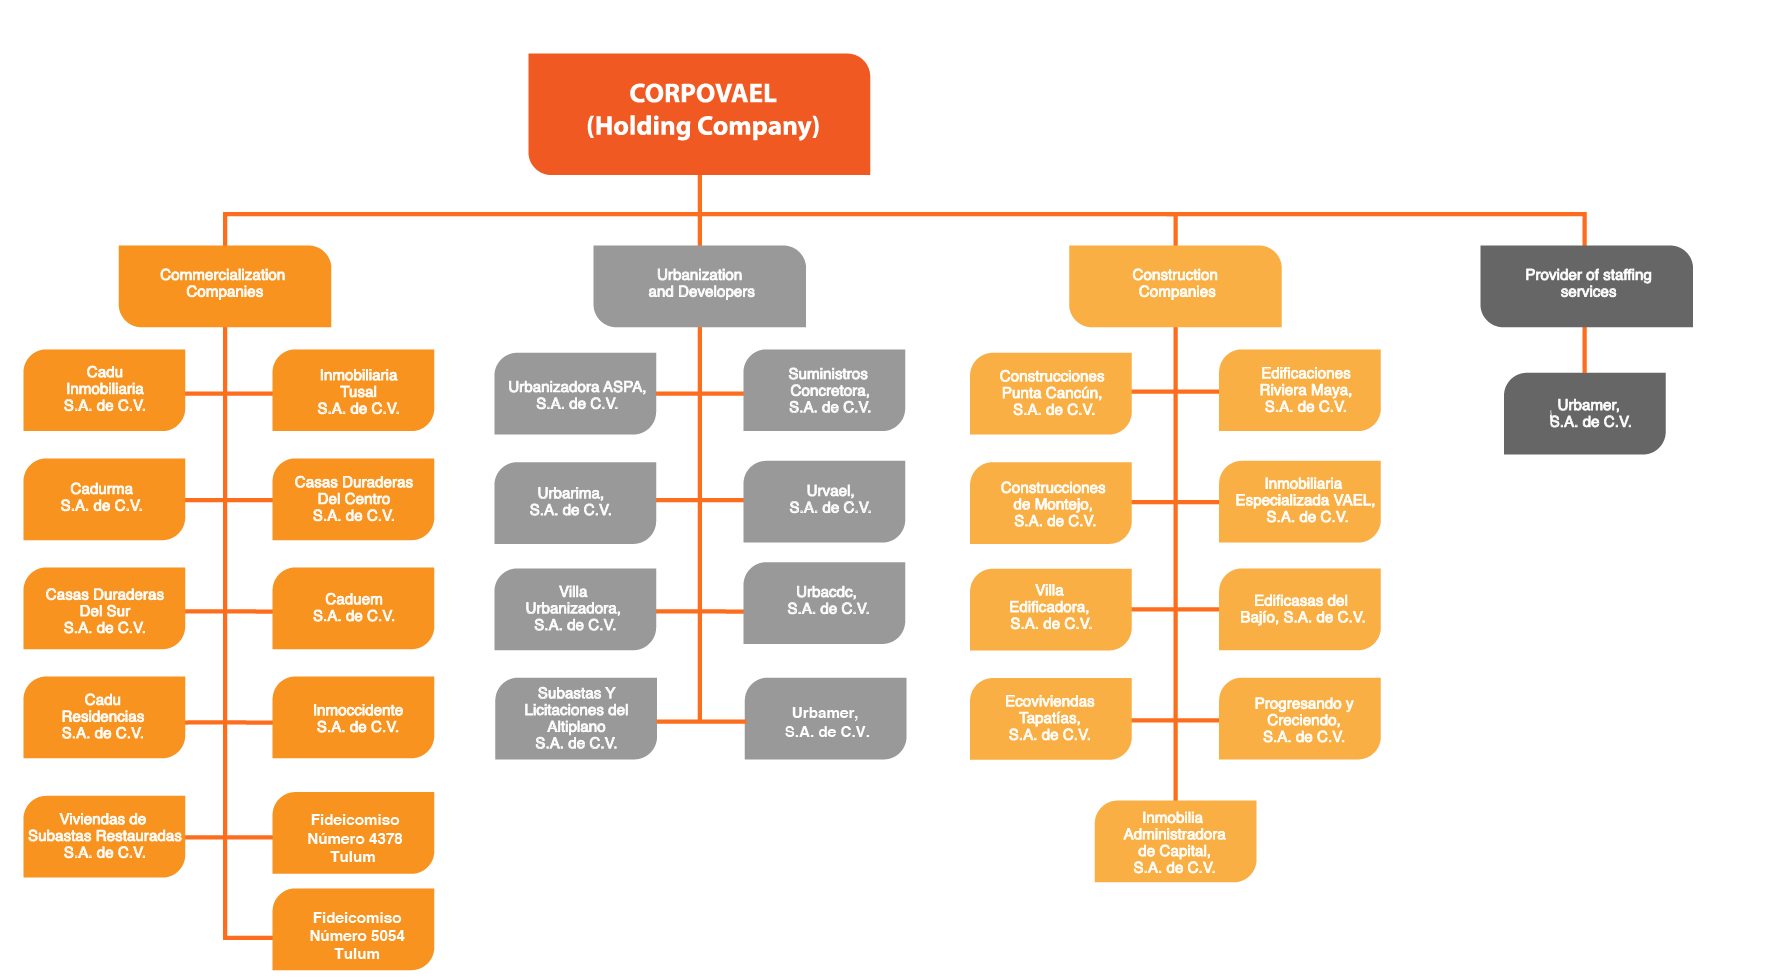
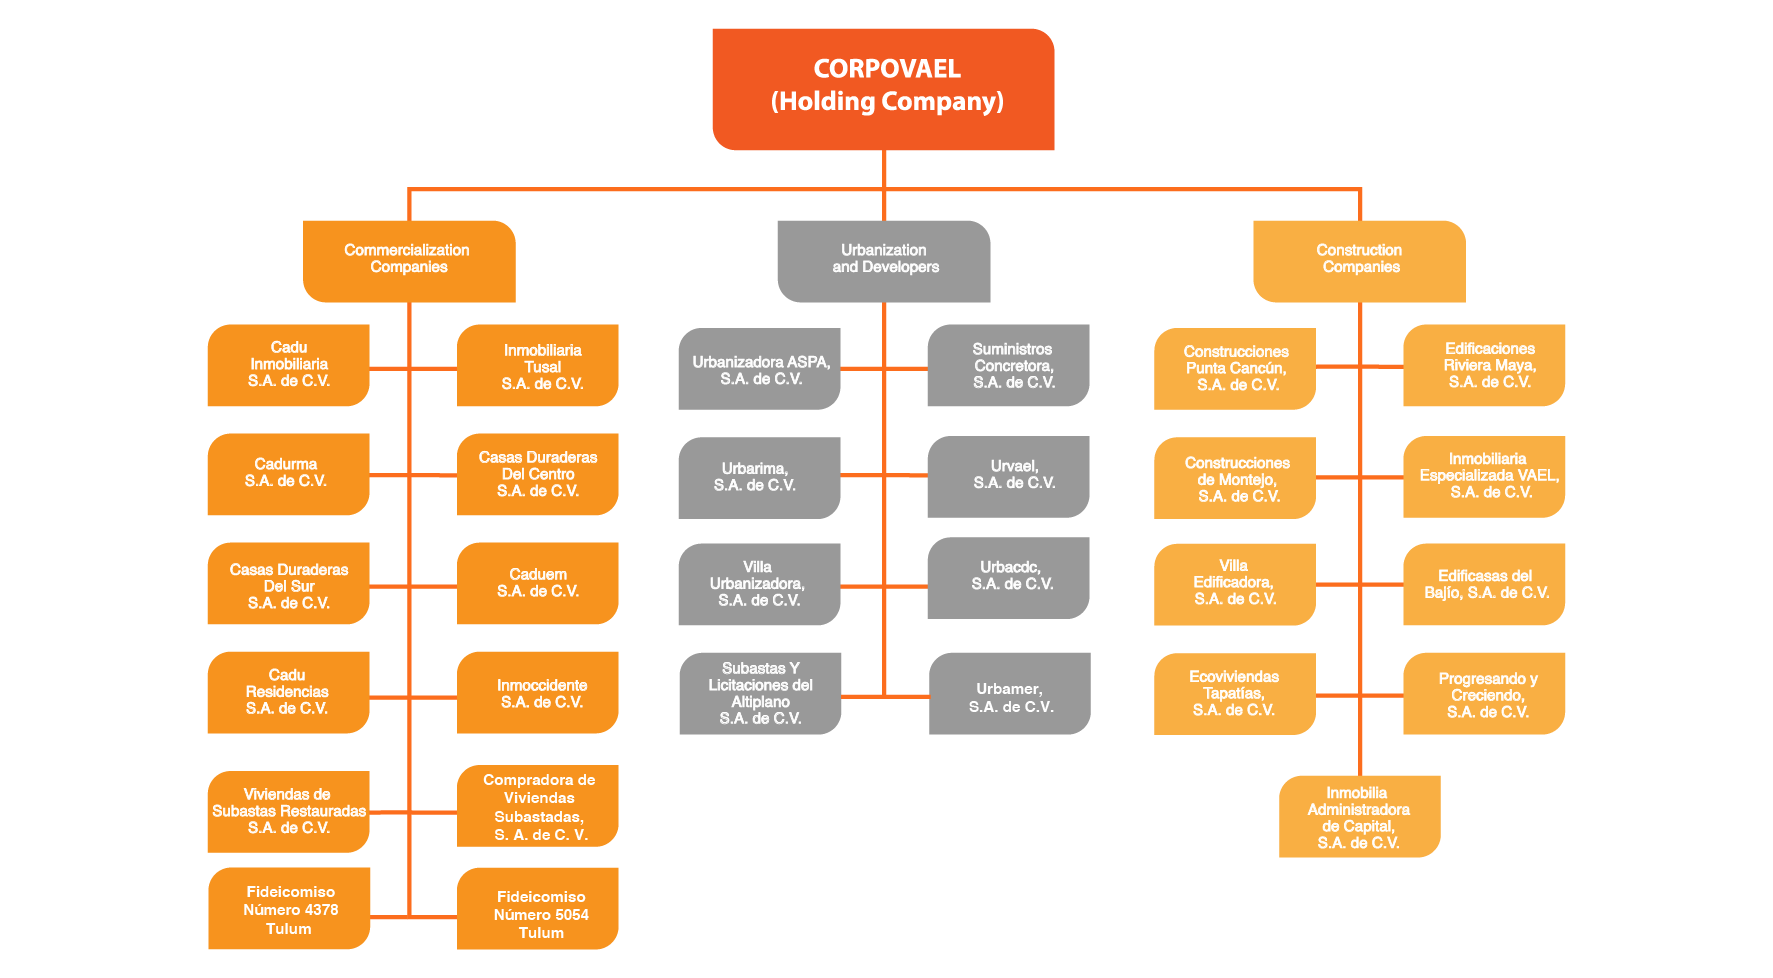
Actualizando sitio

diff --git a/public/assets/plugins/amcharts/charts-accionaria.js b/public/assets/plugins/amcharts/charts-accionaria.js
@@ -5,10 +5,12 @@
 if (locale == "es") {
     var grupo = "Grupo de Control";
     var publico = "Público inversionista";
+    var fondo = "Fondo de Recompra";
 }
 else {
     var grupo = "Control Group";
     var publico = "Float";
+    var fondo = "Buyback Fund";
 
 }
 window.onload = function() {
@@ -57,7 +59,10 @@ window.onload = function() {
                 "data": 71.98
             },{
                 "title":publico,
-                "data": 28.02
+                "data": 27.48
+            },{
+                "title":fondo,
+                "data": 0.54
             }],
             "valueField": "data",
             "titleField": "title",